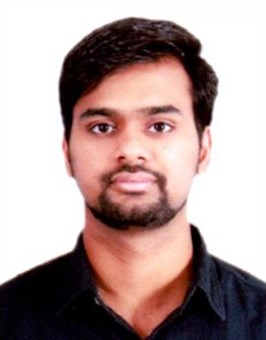
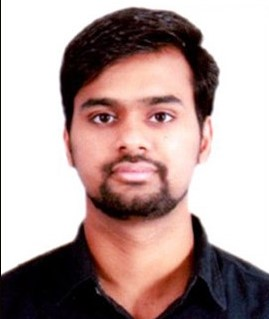
Commit last

diff --git a/index.html b/index.html
@@ -70,9 +70,9 @@
                     </section>
                     <section>
                         <h2><b>Image:</b></h2>
-                        <img src="https://beinspiredchannel.com/wp-content/uploads/2017/05/19554152_855596844607290_2806698021903870314_n.jpg"
+                        <img src="images/image2.jpg"
                             alt="Oops! Photo missed" id="imgset2">
-                            <p id="idsource"></p>Source obtained from beinspiredchannel.com</p>
+                            <p id="idsource"></p>Credits: Harish Thadka</p>
                     </section>
                     <section>
                         <h2><b>Video:</b></h2>
@@ -81,16 +81,33 @@
                             allowfullscreen></iframe>
                             <p id="idsource"></p>Source obtained from Youtube.com</p>
                     </section>
+                    <section>
+                        <h2><b> My skills</b> </h2>
+                            <table class="tg">
+                              <tr>
+                                <th class="tg-cly1">Programming Languages</th>
+                                <th class="tg-cly1">Java, Python</th>
+                              </tr>
+                              <tr>
+                                <td class="tg-cly1">Web Tecnologies</td>
+                                <td class="tg-cly1">HTML, CSS</td>
+                              </tr>
+                              <tr>
+                                <td class="tg-cly1">Tools</td>
+                                <td class="tg-cly1">Pycharm</td>
+                              </tr>
+                            </table>
+                    </section>
             </article>
             <aside>
                 <h2><b>You can find me:</b></h2>
                 <ul>
-                    <li> <a href="https://www.linkedin.com/in/harish-thadka-059341196/" id="listedcolor">LinkedIn <i
-                                class="fab fa-linkedin-in"></i></a></li>
-                    <li><a href="https://www.facebook.com/thadka.harish" id="listedcolor">Facebook <i
-                            class="fab fa-facebook"></i></a></li>
-                    <li><a href="https://github.com/harish24680?tab=repositories" id="listedcolor" >GitHub <i
-                            class="fab fa-github"></i></a></li>
+                    <li> <a href="https://www.linkedin.com/in/harish-thadka-059341196/" class="listed1">LinkedIn <i
+                                class="fab fa-linkedin-in default-color"></i></a></li>
+                    <li><a href="https://www.facebook.com/thadka.harish" class="listed2">Facebook <i
+                            class="fab fa-facebook default-color"></i></a></li>
+                    <li><a href="https://github.com/harish24680?tab=repositories" class="listed3">GitHub <i
+                            class="fab fa-github default-color"></i></a></li>
                 </ul>
             </aside>
         </div>

diff --git a/styles/thadka.css b/styles/thadka.css
@@ -8,14 +8,23 @@ h2{
  color:white;
 }
 
-#listedcolor{
-    color: white
+.listed1{
+    color: white;
+    font-style: italic;
+}
+
+.listed2{
+    color: white;
+    font-style: italic;
+}
+.listed3{
+    color: white;
+    font-style: italic;
 }
 #imgset{
     border-radius: 50%;
     height: 200px;
     align-self: center;
-
 }
 #imgset2{
     border-radius: 10%;
@@ -32,4 +41,14 @@ p{
 ul{
     color: white;
 }
+
+.tg  {
+    border-collapse:collapse;
+    border-spacing:0;
+}
+.tg td{font-family:Arial,  sans-serif;
+    color:white;
+    font-size:14px;padding:10px 5px;border-style:solid;border-width:1px;overflow:hidden;word-break:normal;border-color:black;}
+.tg th{font-family:Arial, sans-serif; color:white;font-size:14px;font-weight:normal;padding:10px 5px;border-style:solid;border-width:1px;overflow:hidden;word-break:normal;border-color:black;}
+.tg .tg-cly1{text-align:left;vertical-align:middle}
 

diff --git a/contact.html b/contact.html
@@ -44,7 +44,7 @@
     <main>
         <div class="jumbotron mdb-color lighten-2 white-text mb-0 ">
             <!-- Title -->
-            <h2 class="card-title h2 text-center">Contact Me
+            <h2 class="card-title h2">Contact Me
             </h2>
             <form style="color:white;" action="#!">
 
